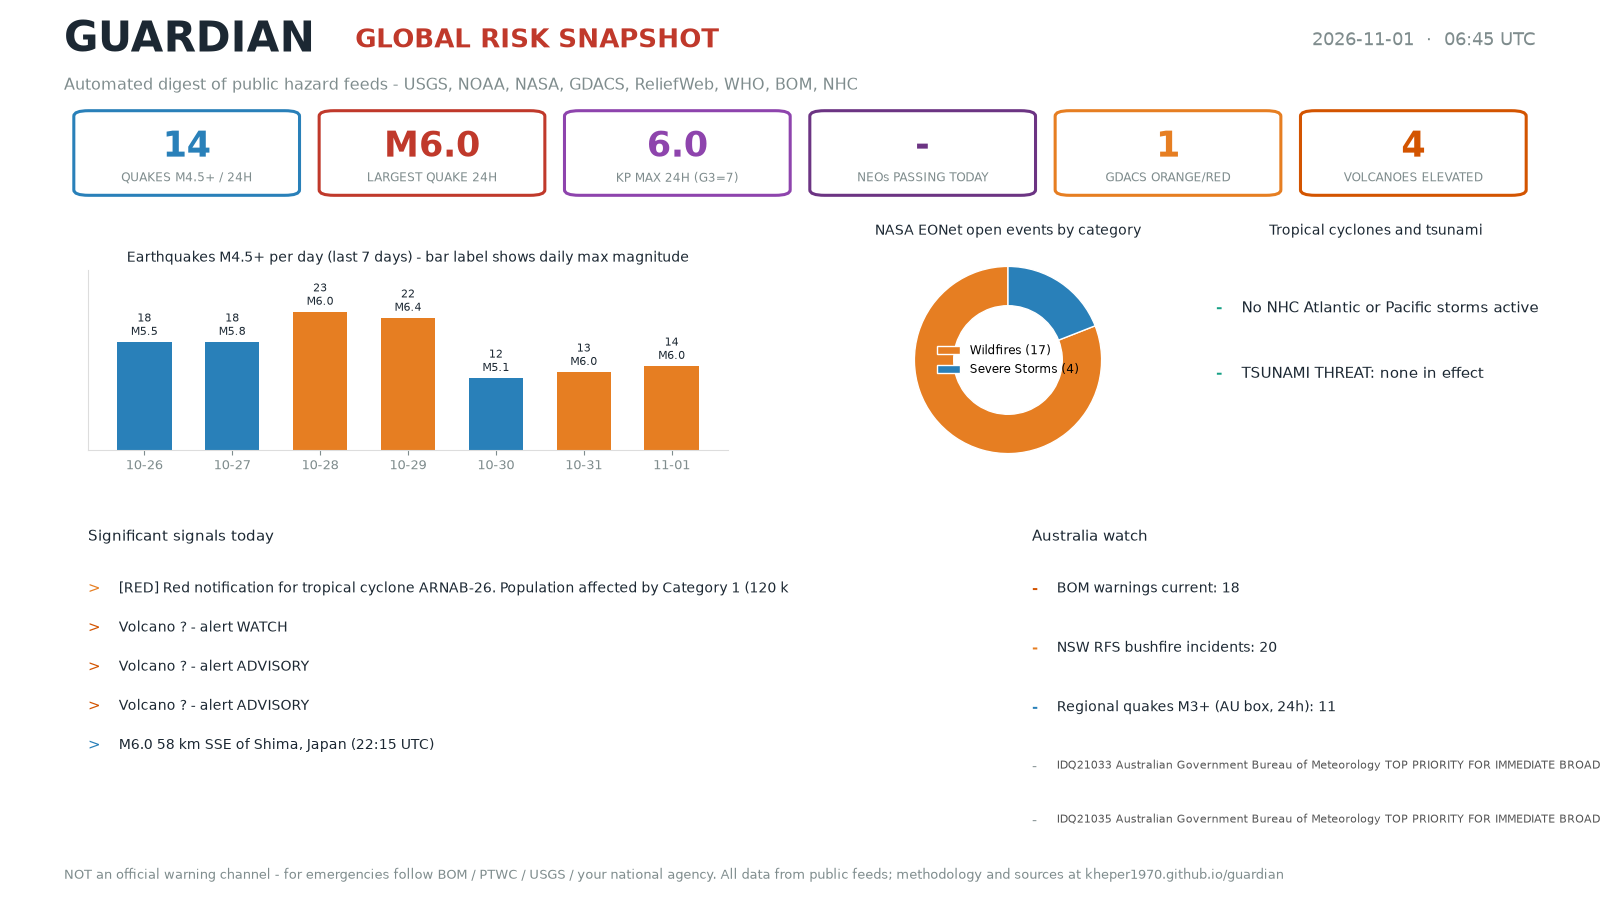
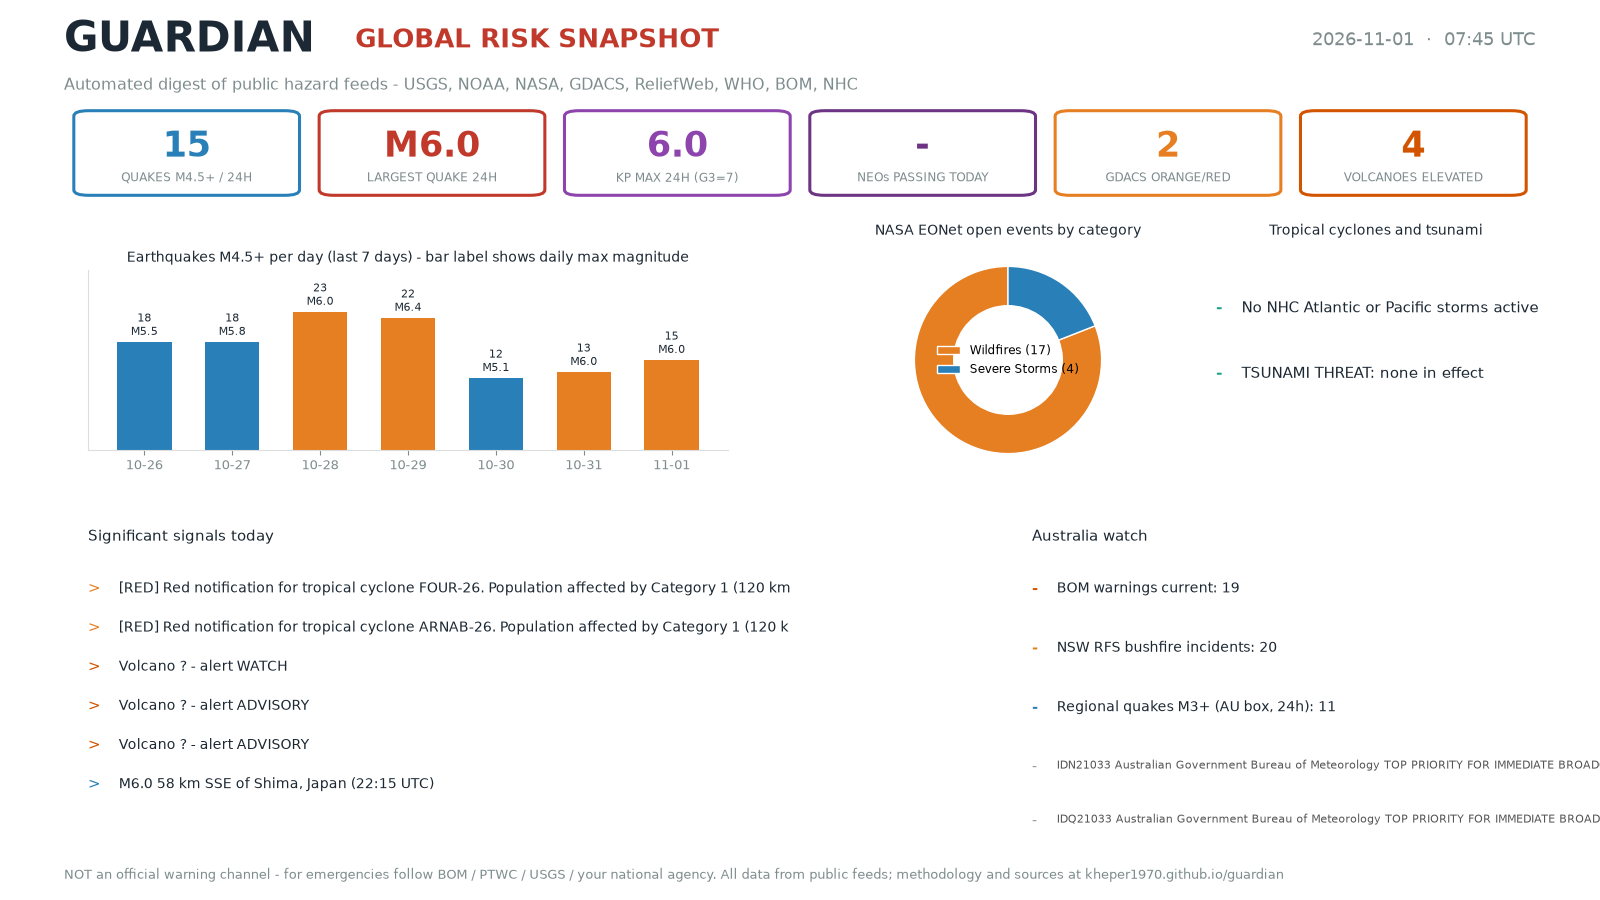
Automated update 2026-11-01T07:50Z

diff --git a/briefing/briefing_2026-11-01.html b/briefing/briefing_2026-11-01.html
@@ -80,16 +80,16 @@ or your national emergency agency.</p>
 <h1>Guardian daily briefing — 2026-11-01</h1>
 <p>Generated automatically from public feeds (USGS, NOAA, NASA, WHO, GDACS, ReliefWeb, EONet, Google News). All times UTC.</p>
 <h2>Earthquakes (M4.5+, last 24h)</h2>
-<p>Count: 13
+<p>Count: 15
 - M6 58 km SSE of Shima, Japan (2026-10-31 22:15 UTC)
+- M5.4 203 km NW of Port-Olry, Vanuatu (2026-11-01 06:26 UTC)
 - M5.2 200 km NW of Port-Olry, Vanuatu (2026-10-31 22:42 UTC)
 - M5.2 4 km S of Bajo Corral, Panama (2026-10-31 15:50 UTC)
+- M5.1 201 km NW of Port-Olry, Vanuatu (2026-11-01 07:00 UTC)
 - M5 115 km SE of Bushehr, Iran (2026-10-31 21:20 UTC)
 - M5 196 km NW of Port-Olry, Vanuatu (2026-10-31 11:31 UTC)
 - M4.9 236 km NW of Port-Olry, Vanuatu (2026-10-31 09:18 UTC)
-- M4.9 213 km W of Sola, Vanuatu (2026-10-31 09:15 UTC)
-- M4.8 71 km NNW of San Antonio de los Cobres, Argentina (2026-11-01 05:31 UTC)
-- ...and 5 more</p>
+- ...and 7 more</p>
 <h2>Space weather</h2>
 <ul>
 <li>Kp now: 4.33; max last 24h: 6.0 (storm threshold G3 = Kp 7.0)</li>
@@ -101,6 +101,7 @@ or your national emergency agency.</p>
 <p>Count: None</p>
 <h2>GDACS significant alerts (orange/red)</h2>
 <ul>
+<li>[RED] (2026-11-01 02:23 UTC) Red notification for tropical cyclone FOUR-26. Population affected by Category 1 (120 km/h) wind speeds or higher is 1.156 million .</li>
 <li>[RED] (2026-10-26 01:51 UTC) Red notification for tropical cyclone ARNAB-26. Population affected by Category 1 (120 km/h) wind speeds or higher is 4.008 million .</li>
 </ul>
 <h2>Tsunami (NOAA NTWC)</h2>
@@ -186,13 +187,16 @@ or your national emergency agency.</p>
 </ul>
 <h2>Famine watch (UN News + ReliefWeb keywords)</h2>
 <ul>
+<li>[UN News] Ending conflict is ‘number one thing’ to reduce world hunger, new WFP chief says (Wed, 28 Oct 2026)</li>
 <li>[ReliefWeb] South Sudan Humanitarian Update (as of 30 October 2026) (Sat, 31 Oct 2026)</li>
 <li>[ReliefWeb] Haiti: Latin America &amp; The Caribbean Weekly Situation Update as of 30 October 2026 (Fri, 30 Oct 2026)</li>
 <li>[ReliefWeb] DR Congo: DRC: Over 30 million people projected to face hunger as conflict and Ebola compound crisis for children (Fri, 30 Oct 2026)</li>
 </ul>
 <h2>Armed conflict watch (UN News + ReliefWeb keywords)</h2>
 <ul>
-<li>no armed-conflict keyword items in feeds</li>
+<li>[UN News] Ukraine: Oleshky ceasefire offers ‘hope’ for civilians as attacks on aid vehicles continue (Fri, 30 Oct 2026)</li>
+<li>[UN News] Yemen war makes reaching assistance too dangerous for many (Fri, 30 Oct 2026)</li>
+<li>[UN News] World News in Brief: ‘No safe place in Ukraine’, IAEA calls for Iran nuclear inspections, Kenya hosts thousands of Ethiopians fleeing clashes (Tue, 27 Oct 2026)</li>
 </ul>
 <h2>Australia watch (ABC News, NSW RFS, USGS AU quakes, GNews AU, health.gov.au)</h2>
 <ul>
@@ -208,11 +212,11 @@ or your national emergency agency.</p>
 <li>M4.8 41 km WNW of Kupang, Indonesia</li>
 <li>AU emergency headlines:</li>
 <li>Three days of supplies? How prepared are Australians for the next disaster? - SBS (Sat, 31 Oct 2026)</li>
-<li>‘Incredible’ tornado filmed as wild weather causes ‘extensive damage’ in NSW town - Nine.com.au (Sat, 31 Oct 2026)</li>
 <li>Major risk to Australia's essential services as stockpiling advice grows overseas: 'Paralyse the country' - Yahoo News Australia (Sat, 31 Oct 2026)</li>
-<li>Dramatic footage shows devastating tornado - The Australian (Sat, 31 Oct 2026)</li>
-<li>Storm warnings for Melbourne, Canberra, Sydney and Brisbane as cold front ‘packs a punch’ - The Guardian (Sat, 31 Oct 2026)</li>
-<li>Some NSW police are now armed with military-style rifles. And they could be deployed to protests - The Guardian (Sat, 31 Oct 2026)</li>
+<li>‘Incredible’ tornado filmed as wild weather causes ‘extensive damage’ in NSW town - Nine.com.au (Sat, 31 Oct 2026)</li>
+<li>Dramatic footage shows devastating tornado - News.com.au (Sat, 31 Oct 2026)</li>
+<li>Tragic end to search for man missing in flood - The Australian (Sat, 31 Oct 2026)</li>
+<li>Some NSW police are now armed with military-style rifles. And they could be deployed to protests - The Guardian (Sun, 01 Nov 2026)</li>
 <li>Quad Joint Press Release on Economic Prosperity and Security - Australian Minister for Foreign Affairs (Sat, 31 Oct 2026)</li>
 <li>Toll Group’s government and defence business partners with Soldier On Australia - Asia Pacific Defence Reporter (Sat, 31 Oct 2026)</li>
 <li>Sale of Victoria Barracks Sydney 'mind-boggling', says retired colonel - ABC News &amp; Headlines – Australian Broadcasting Corporation (Sat, 31 Oct 2026)</li>
@@ -225,7 +229,8 @@ or your national emergency agency.</p>
 </ul>
 <h2>BOM warnings (Bureau of Meteorology Australia)</h2>
 <ul>
-<li>Products scanned: 18, high: 2, medium: 12, errors: 0</li>
+<li>Products scanned: 19, high: 3, medium: 12, errors: 0</li>
+<li>HIGH [IDN21033] Severe Thunderstorm Warning ()</li>
 <li>HIGH [IDQ21033] Severe Thunderstorm Warning ()</li>
 <li>HIGH [IDQ21035] Severe Thunderstorm Warning - Southeast Queensland ()</li>
 <li>MED [IDN36631] Initial Minor Flood Warning for the Warrego River (NSW)</li>
@@ -260,11 +265,13 @@ or your national emergency agency.</p>
 <li>Sat, 15 Aug 2026 00:00:00 +0000: Indonesia: Earthquake - Aug 2026</li>
 </ul>
 <h2>Alerts</h2>
-<p><strong>VOLCANO ORANGE: Great Sitkin (avo)</strong>
+<p><strong>GDACS RED: Red notification for tropical cyclone FOUR-26. Population affected by Category 1 (120 km/h) wind speeds or higher is 1.156 million .</strong>
+<strong>VOLCANO ORANGE: Great Sitkin (avo)</strong>
 <strong>VOLCANO-NEW Krakatau (Indonesia): new eruptive activity (GVP weekly)</strong>
 <strong>VOLCANO-NEW Manam (Papua New Guinea): new eruptive activity (GVP weekly)</strong>
 <strong>VOLCANO-NEW Marapi (Indonesia): new eruptive activity (GVP weekly)</strong>
 <strong>VOLCANO-NEW Nevados de Chillán (Chile): new eruptive activity (GVP weekly)</strong>
+<strong>BOM HIGH: [IDN21033] Severe Thunderstorm Warning</strong>
 <strong>BOM HIGH: [IDQ21033] Severe Thunderstorm Warning</strong>
 <strong>BOM HIGH: [IDQ21035] Severe Thunderstorm Warning - Southeast Queensland</strong></p>
 </div></main>

diff --git a/index.html b/index.html
@@ -96,8 +96,8 @@ The setting is reviewed annually (each January) by its Science and Security Boar
 <a href="https://thebulletin.org/doomsday-clock/">thebulletin.org</a>.
 Clock artwork © Bulletin of the Atomic Scientists; used with attribution.</p>
 </div></div></div>
-<div class="statgrid"><div class="stat"><div class="n">14</div><div class="l">quakes M4.5+ / 24h</div></div><div class="stat"><div class="n">M6.0</div><div class="l">largest quake</div></div><div class="stat"><div class="n">6.0</div><div class="l">Kp max 24h</div></div><div class="stat"><div class="n">None</div><div class="l">NEOs today</div></div><div class="stat"><div class="n">1</div><div class="l">GDACS orange/red</div></div><div class="stat"><div class="n">4</div><div class="l">volcanoes elevated</div></div></div>
-<p style="color:#666666;font-size:.9rem">Snapshot taken 2026-11-01T06:45:01.766883+00:00 UTC.
+<div class="statgrid"><div class="stat"><div class="n">15</div><div class="l">quakes M4.5+ / 24h</div></div><div class="stat"><div class="n">M6.0</div><div class="l">largest quake</div></div><div class="stat"><div class="n">6.0</div><div class="l">Kp max 24h</div></div><div class="stat"><div class="n">None</div><div class="l">NEOs today</div></div><div class="stat"><div class="n">2</div><div class="l">GDACS orange/red</div></div><div class="stat"><div class="n">4</div><div class="l">volcanoes elevated</div></div></div>
+<p style="color:#666666;font-size:.9rem">Snapshot taken 2026-11-01T07:45:01.093895+00:00 UTC.
 Open the <a href="briefing/briefing_2026-11-01.html">full briefing</a> for details and sources.</p>
 </div>
 <div class="card"><h2 style="margin-top:0">Daily infographic</h2>

diff --git a/briefing/briefing_2026-11-01.md b/briefing/briefing_2026-11-01.md
@@ -3,16 +3,16 @@
 Generated automatically from public feeds (USGS, NOAA, NASA, WHO, GDACS, ReliefWeb, EONet, Google News). All times UTC.
 
 ## Earthquakes (M4.5+, last 24h)
-Count: 13
+Count: 15
 - M6 58 km SSE of Shima, Japan (2026-10-31 22:15 UTC)
+- M5.4 203 km NW of Port-Olry, Vanuatu (2026-11-01 06:26 UTC)
 - M5.2 200 km NW of Port-Olry, Vanuatu (2026-10-31 22:42 UTC)
 - M5.2 4 km S of Bajo Corral, Panama (2026-10-31 15:50 UTC)
+- M5.1 201 km NW of Port-Olry, Vanuatu (2026-11-01 07:00 UTC)
 - M5 115 km SE of Bushehr, Iran (2026-10-31 21:20 UTC)
 - M5 196 km NW of Port-Olry, Vanuatu (2026-10-31 11:31 UTC)
 - M4.9 236 km NW of Port-Olry, Vanuatu (2026-10-31 09:18 UTC)
-- M4.9 213 km W of Sola, Vanuatu (2026-10-31 09:15 UTC)
-- M4.8 71 km NNW of San Antonio de los Cobres, Argentina (2026-11-01 05:31 UTC)
-- ...and 5 more
+- ...and 7 more
 
 ## Space weather
 - Kp now: 4.33; max last 24h: 6.0 (storm threshold G3 = Kp 7.0)
@@ -24,6 +24,7 @@ Count: 13
 Count: None
 
 ## GDACS significant alerts (orange/red)
+- [RED] (2026-11-01 02:23 UTC) Red notification for tropical cyclone FOUR-26. Population affected by Category 1 (120 km/h) wind speeds or higher is 1.156 million .
 - [RED] (2026-10-26 01:51 UTC) Red notification for tropical cyclone ARNAB-26. Population affected by Category 1 (120 km/h) wind speeds or higher is 4.008 million .
 
 
@@ -102,12 +103,15 @@ Count: None
 - Can emergency cash buy food security? - UNU | United Nations University (Wed, 08 Jul 2026)
 
 ## Famine watch (UN News + ReliefWeb keywords)
+- [UN News] Ending conflict is ‘number one thing’ to reduce world hunger, new WFP chief says (Wed, 28 Oct 2026)
 - [ReliefWeb] South Sudan Humanitarian Update (as of 30 October 2026) (Sat, 31 Oct 2026)
 - [ReliefWeb] Haiti: Latin America &amp; The Caribbean Weekly Situation Update as of 30 October 2026 (Fri, 30 Oct 2026)
 - [ReliefWeb] DR Congo: DRC: Over 30 million people projected to face hunger as conflict and Ebola compound crisis for children (Fri, 30 Oct 2026)
 
 ## Armed conflict watch (UN News + ReliefWeb keywords)
-- no armed-conflict keyword items in feeds
+- [UN News] Ukraine: Oleshky ceasefire offers ‘hope’ for civilians as attacks on aid vehicles continue (Fri, 30 Oct 2026)
+- [UN News] Yemen war makes reaching assistance too dangerous for many (Fri, 30 Oct 2026)
+- [UN News] World News in Brief: ‘No safe place in Ukraine’, IAEA calls for Iran nuclear inspections, Kenya hosts thousands of Ethiopians fleeing clashes (Tue, 27 Oct 2026)
 
 ## Australia watch (ABC News, NSW RFS, USGS AU quakes, GNews AU, health.gov.au)
 - Epstein survivor thinks serial sex offender would be 'proud' (Sun, 01 Nov 2026)
@@ -122,11 +126,11 @@ Count: None
   - M4.8 41 km WNW of Kupang, Indonesia
 - AU emergency headlines:
   - Three days of supplies? How prepared are Australians for the next disaster? - SBS (Sat, 31 Oct 2026)
-  - ‘Incredible’ tornado filmed as wild weather causes ‘extensive damage’ in NSW town - Nine.com.au (Sat, 31 Oct 2026)
   - Major risk to Australia's essential services as stockpiling advice grows overseas: 'Paralyse the country' - Yahoo News Australia (Sat, 31 Oct 2026)
-  - Dramatic footage shows devastating tornado - The Australian (Sat, 31 Oct 2026)
-  - Storm warnings for Melbourne, Canberra, Sydney and Brisbane as cold front ‘packs a punch’ - The Guardian (Sat, 31 Oct 2026)
-  - Some NSW police are now armed with military-style rifles. And they could be deployed to protests - The Guardian (Sat, 31 Oct 2026)
+  - ‘Incredible’ tornado filmed as wild weather causes ‘extensive damage’ in NSW town - Nine.com.au (Sat, 31 Oct 2026)
+  - Dramatic footage shows devastating tornado - News.com.au (Sat, 31 Oct 2026)
+  - Tragic end to search for man missing in flood - The Australian (Sat, 31 Oct 2026)
+  - Some NSW police are now armed with military-style rifles. And they could be deployed to protests - The Guardian (Sun, 01 Nov 2026)
   - Quad Joint Press Release on Economic Prosperity and Security - Australian Minister for Foreign Affairs (Sat, 31 Oct 2026)
   - Toll Group’s government and defence business partners with Soldier On Australia - Asia Pacific Defence Reporter (Sat, 31 Oct 2026)
   - Sale of Victoria Barracks Sydney 'mind-boggling', says retired colonel - ABC News &amp; Headlines – Australian Broadcasting Corporation (Sat, 31 Oct 2026)
@@ -138,7 +142,8 @@ Count: None
   - 2025 Residents’ Experience Survey results are in
 
 ## BOM warnings (Bureau of Meteorology Australia)
-- Products scanned: 18, high: 2, medium: 12, errors: 0
+- Products scanned: 19, high: 3, medium: 12, errors: 0
+  - HIGH [IDN21033] Severe Thunderstorm Warning ()
   - HIGH [IDQ21033] Severe Thunderstorm Warning ()
   - HIGH [IDQ21035] Severe Thunderstorm Warning - Southeast Queensland ()
   - MED [IDN36631] Initial Minor Flood Warning for the Warrego River (NSW)
@@ -171,10 +176,12 @@ Count: None
 - Sat, 15 Aug 2026 00:00:00 +0000: Indonesia: Earthquake - Aug 2026
 
 ## Alerts
+**GDACS RED: Red notification for tropical cyclone FOUR-26. Population affected by Category 1 (120 km/h) wind speeds or higher is 1.156 million .**
 **VOLCANO ORANGE: Great Sitkin (avo)**
 **VOLCANO-NEW Krakatau (Indonesia): new eruptive activity (GVP weekly)**
 **VOLCANO-NEW Manam (Papua New Guinea): new eruptive activity (GVP weekly)**
 **VOLCANO-NEW Marapi (Indonesia): new eruptive activity (GVP weekly)**
 **VOLCANO-NEW Nevados de Chillán (Chile): new eruptive activity (GVP weekly)**
+**BOM HIGH: [IDN21033] Severe Thunderstorm Warning**
 **BOM HIGH: [IDQ21033] Severe Thunderstorm Warning**
 **BOM HIGH: [IDQ21035] Severe Thunderstorm Warning - Southeast Queensland**
